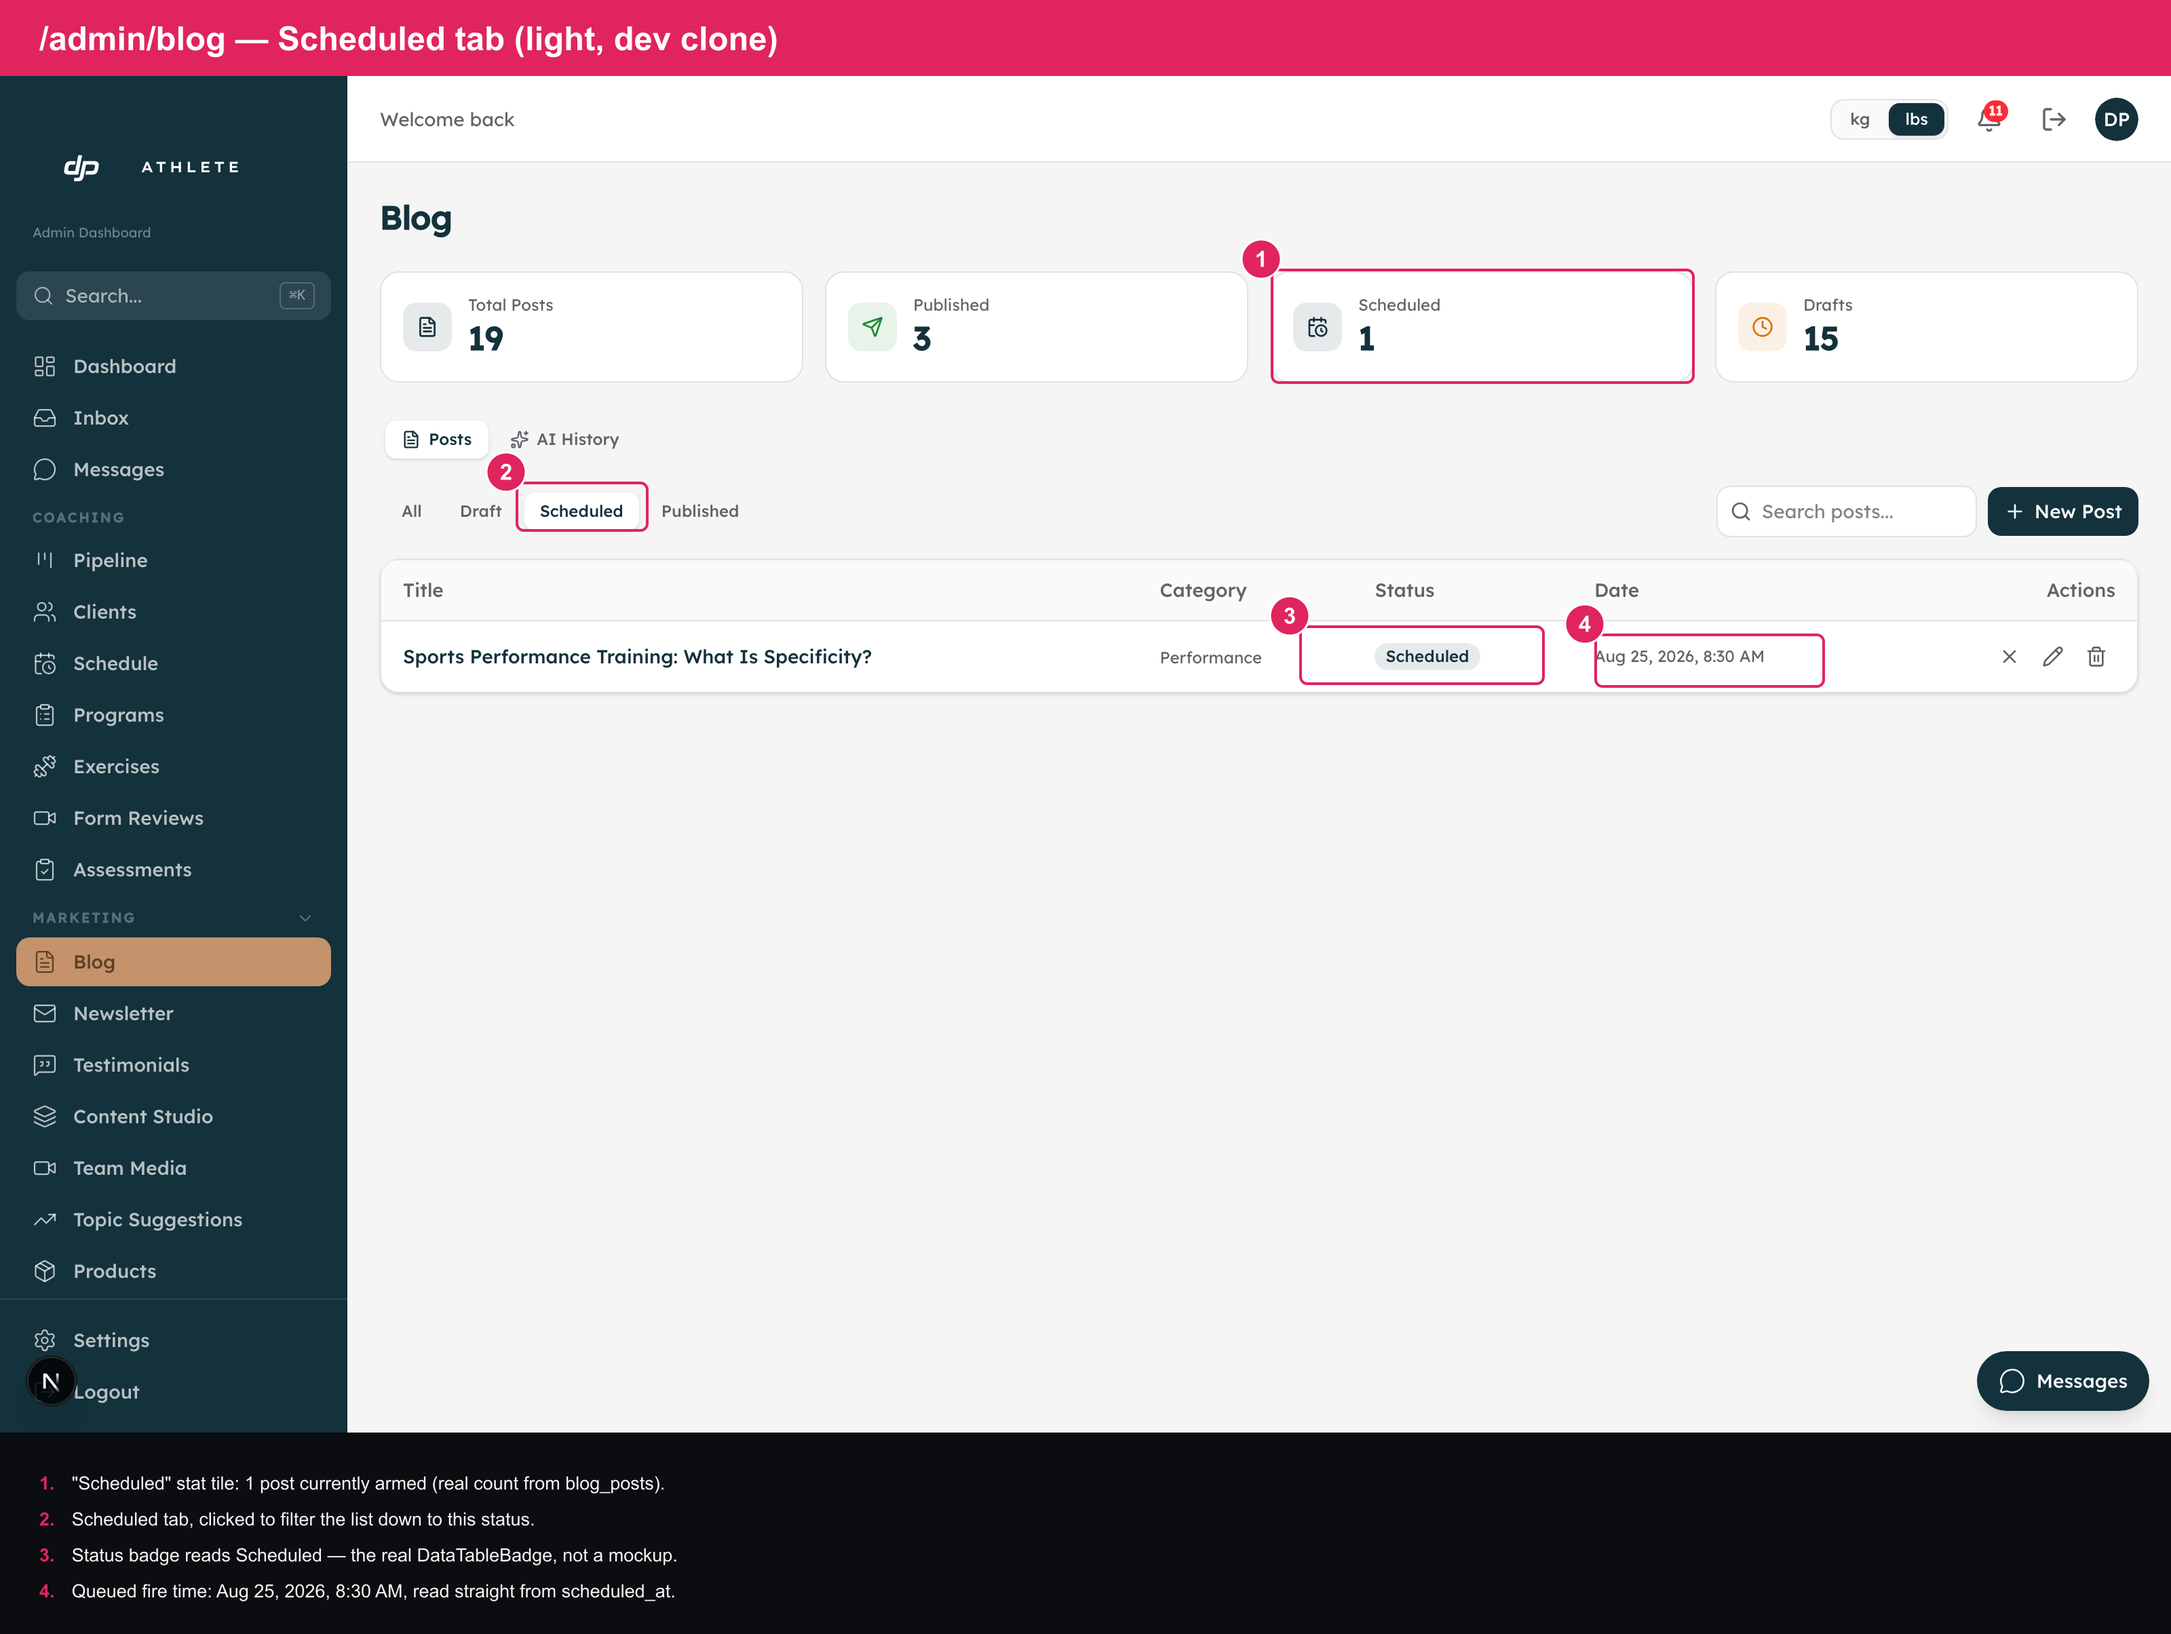
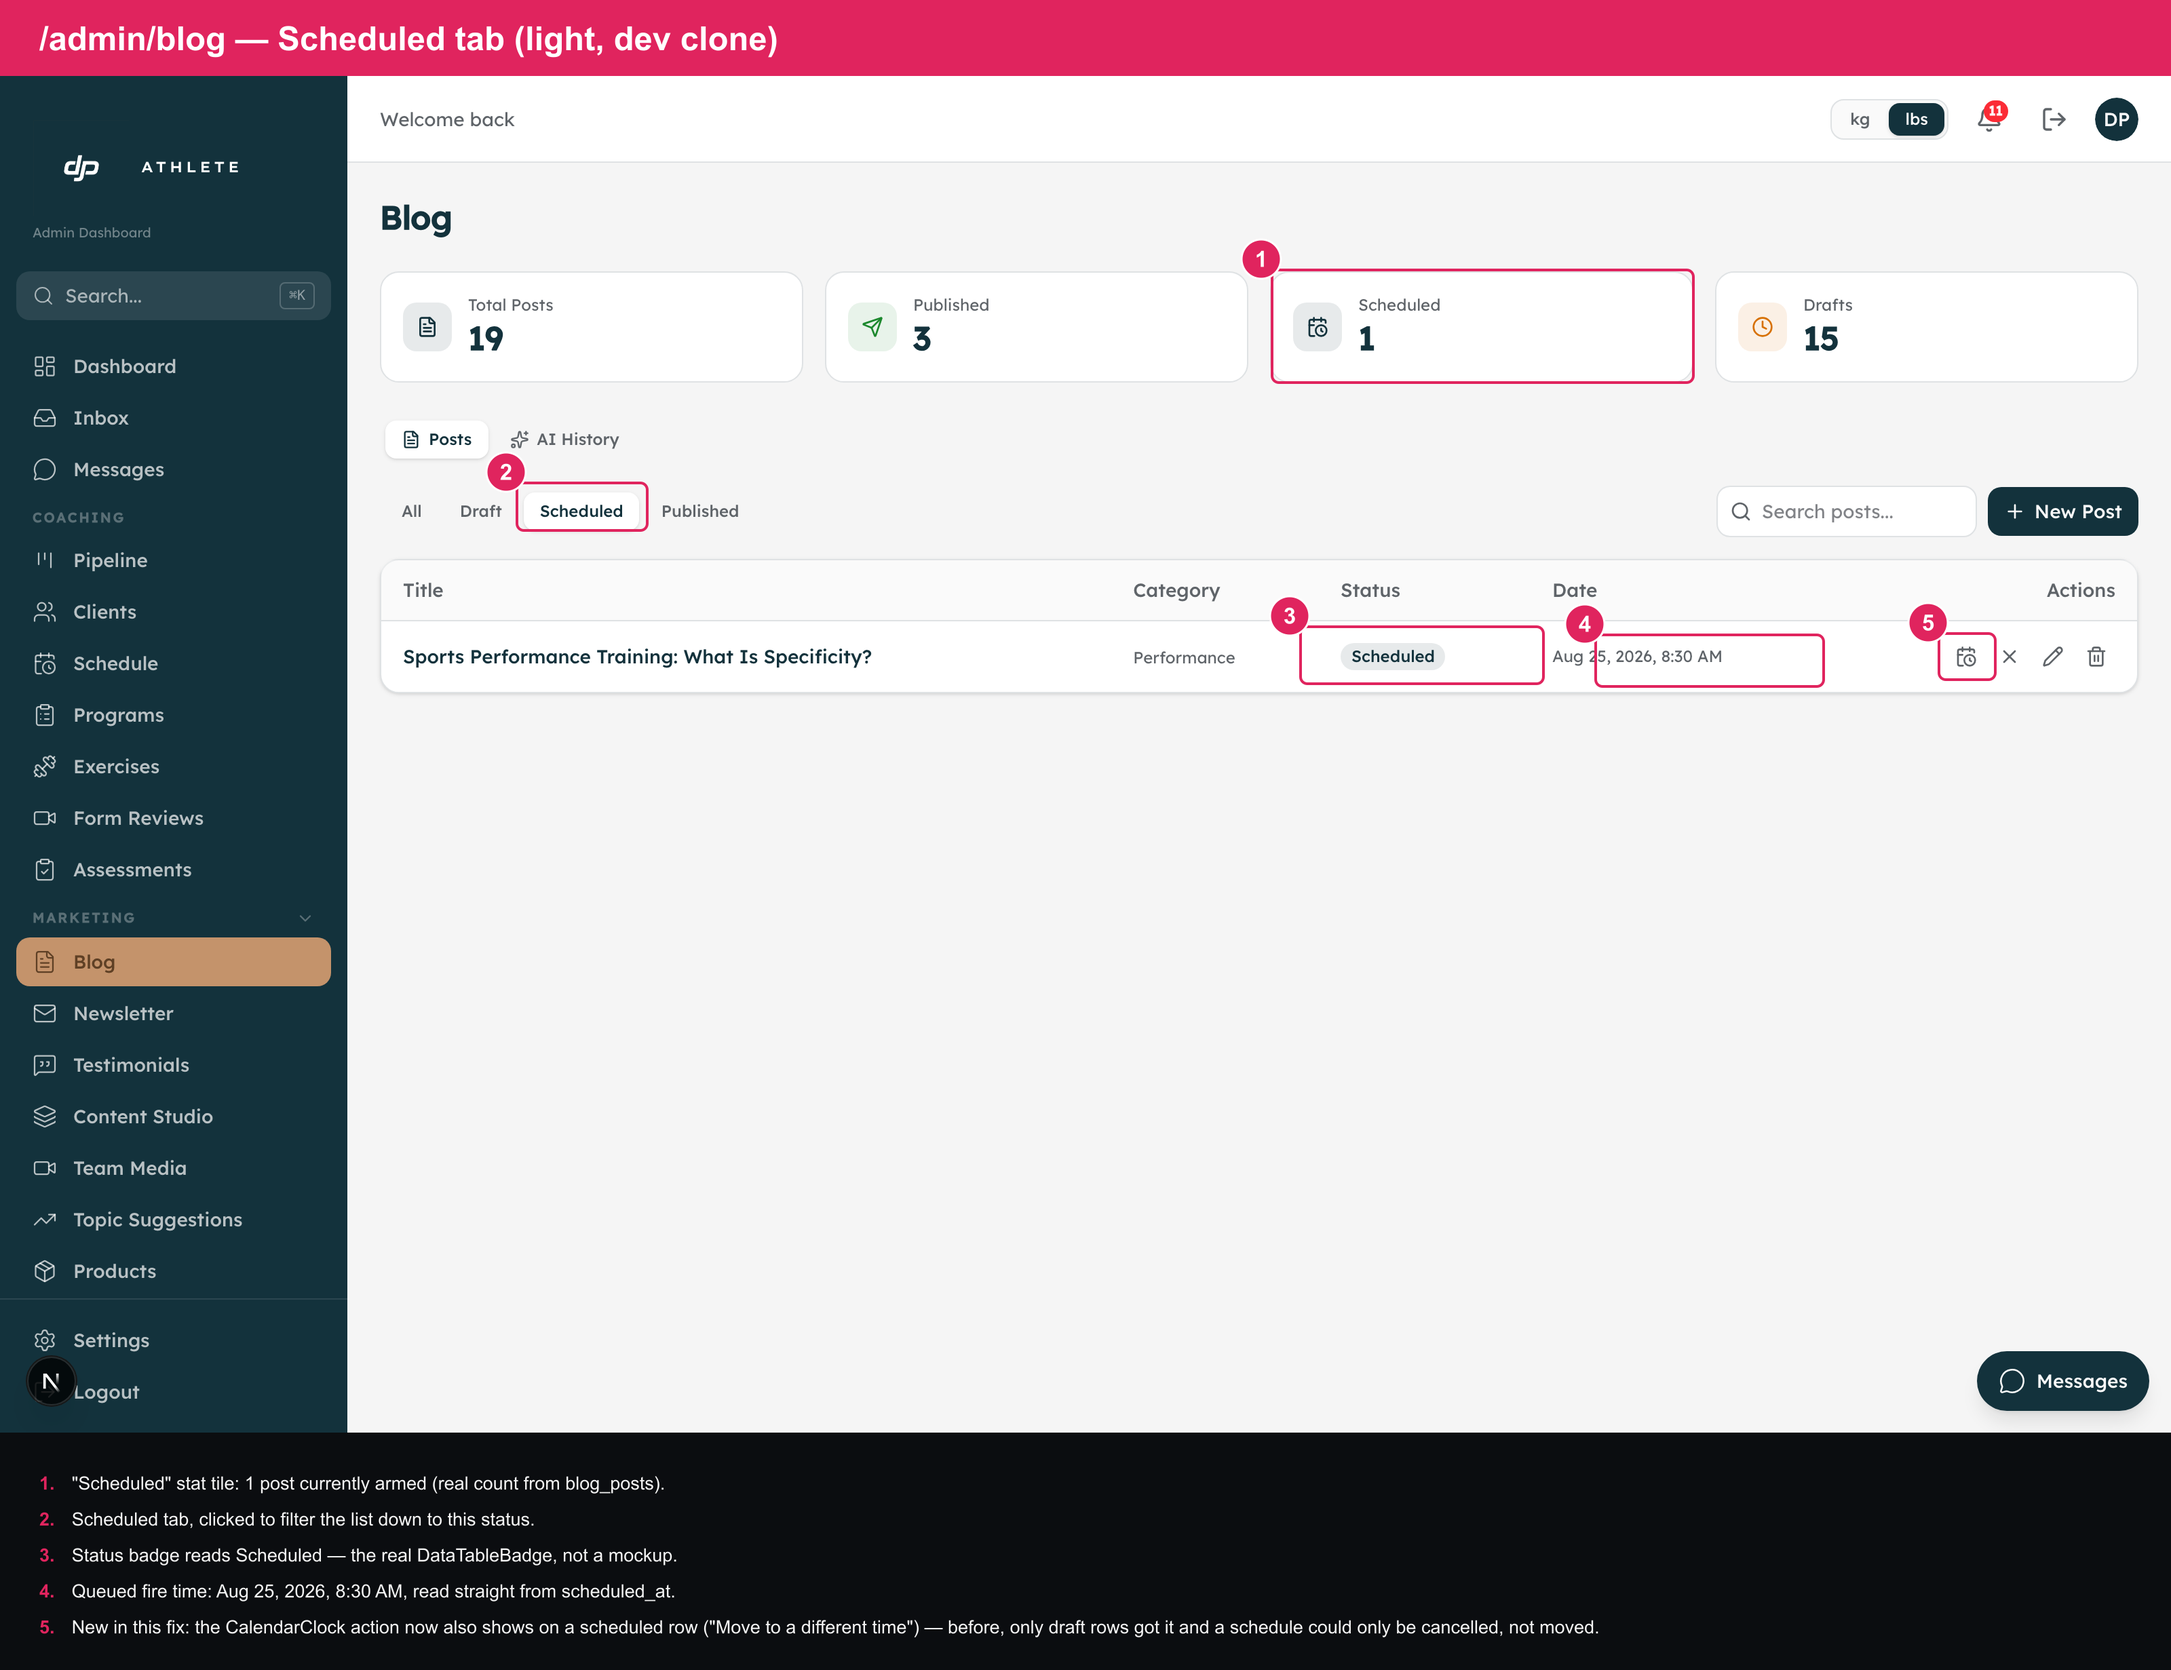
docs(content-scheduling): recapture screenshots stale after the fix wave
Commit d36f3800 humanised the missed-slot reason text and let the Schedule
action re-time an already-scheduled row, so three of the six Task 12
screenshots no longer matched the shipped app:

- 05-blog-missed-item.png showed a raw ISO timestamp and claimed it was
  "rendered verbatim" -- due.ts now renders humanised text via
  formatMissedTime(). Redone with a fresh post pushed past the 24h grace
  window and then genuinely run through the real
  /api/admin/internal/content-schedule-due endpoint, so the current code
  wrote the reason rather than a hand-typed string.
- 01-blog-scheduled-tab.png and 03-newsletter-scheduled-badge.png were
  missing the new "Move to a different time" row action, which the fix
  added to already-scheduled rows (previously Schedule only showed for
  drafts).

02, 04, and 06 were checked against the running app and left untouched --
none of them show behavior this commit changed.

diff --git a/screenshots/content-scheduling/README.md b/screenshots/content-scheduling/README.md
@@ -19,13 +19,40 @@ the capture's exact resolution (3200×2000, from a 1600×1000 viewport at
 `deviceScaleFactor: 2`) — a title banner and caption legend are appended
 above/below, but the screenshot pixels themselves are never scaled.
 
+**Recaptured 2026-08-22.** Commit `d36f3800` (a fix wave landed after the
+original capture) changed two things these shots document, so three of the
+six went stale and were re-driven against the app running that commit:
+
+- `01-blog-scheduled-tab.png` and `03-newsletter-scheduled-badge.png` — both
+  list views used to gate the row's Schedule action to `draft` only. The fix
+  also shows it on an already-`scheduled` row (icon title becomes "Move to a
+  different time"), which is now called out as an extra numbered marker on
+  each shot.
+- `05-blog-missed-item.png` — `due.ts`'s missed-item reason used to render a
+  raw ISO timestamp; it's now humanised by `formatMissedTime()`. The shot was
+  redone end-to-end with a fresh post, not just a re-annotation: the row used
+  in the original capture (and the one used in Task 12's smoke test) both
+  still carry reason strings written by the *old* code, which re-running the
+  checker does not rewrite. This shot uses "Plyometric Training: What Most
+  Coaches Get Wrong" instead, put >24h overdue and then genuinely POSTed to
+  `/api/admin/internal/content-schedule-due` so the *current* code generated
+  the reason text — not a direct DB write of the string.
+- `02-blog-schedule-dialog-open.png`, `04-blog-editor-armed-banner.png`, and
+  `06-content-calendar-chips.png` were checked against the running app and
+  are unchanged: `02` depicts the draft-row Schedule flow, which this fix
+  wave didn't touch; `04`'s banner text and `06`'s chips were re-driven live
+  and matched the committed PNGs exactly.
+
 ## The shots
 
 1. **`01-blog-scheduled-tab.png`** — `/admin/blog`, Scheduled tab. Shows
    "Sports Performance Training: What Is Specificity?" carrying the
    Scheduled badge and its queued fire time (Aug 25, 2026, 8:30 AM), reached
    by clicking the real Schedule icon on the row and confirming in the real
-   `SchedulePicker`.
+   `SchedulePicker`. The row's Actions column also now carries a second
+   CalendarClock icon, title `"Move to a different time"` — before commit
+   `d36f3800`, the Schedule action only rendered for `draft` rows, so an
+   already-scheduled post had no way to move its time, only cancel it.
 2. **`02-blog-schedule-dialog-open.png`** — the real `SchedulePicker` dialog,
    open inline over the real blog list, mid-interaction (before the custom
    time was typed in) — the actual component, not a mock.
@@ -33,25 +60,38 @@ above/below, but the screenshot pixels themselves are never scaled.
    tab. "Why Your COD Training Is Missing the Most Important Piece" reads
    **Scheduled**, not Draft — this is the Task 8 headline fix: before that
    branch, every scheduled newsletter rendered as Draft in this exact cell.
+   Same as shot 1, the row now also carries the "Move to a different time"
+   action — this list had the identical `draft`-only gate, fixed in the
+   same commit.
 4. **`04-blog-editor-armed-banner.png`** — `/admin/blog/[id]/edit` for the
    now-scheduled post, showing the armed banner: "Scheduled to go out on
    8/25/2026, 8:30:00 AM. Edits you save here will be included." with a
    working Cancel schedule link, and Publish still available in the toolbar.
-5. **`05-blog-missed-item.png`** — `/admin/blog`, All tab. "Braking
-   Performance Framework: Target RFD, Not Just Force" shows status reverted
-   to Draft with a danger-tone **Missed** badge and the runner's own
-   `schedule_failed_reason` text rendered verbatim underneath the title.
-   **How this state was reached:** the only way to get a
-   `schedule_failed_reason` without waiting 24 real hours is to write it
-   directly — acceptable here per the task brief because this is the dev
-   clone and the state is genuinely unreachable through the UI in bounded
-   time. Wrote it via the Supabase Management API (the same pattern Task 1
-   used to apply the migration), setting `status='draft'`,
-   `scheduled_at=NULL`, `schedule_failed_reason='Missed its slot — it was
-   set for 2026-08-19T07:00:00.000Z and that is more than 24 hours ago. Pick
-   a new time.'` — this is byte-for-byte the message
-   `lib/content-schedule/due.ts`'s `partitionDue()` itself generates, not an
-   invented string.
+5. **`05-blog-missed-item.png`** — `/admin/blog`, All tab. "Plyometric
+   Training: What Most Coaches Get Wrong" shows status reverted to Draft
+   with a danger-tone **Missed** badge and the runner's own
+   `schedule_failed_reason` text rendered underneath the title, reading
+   "Missed its slot — it was set for Thu 20 Aug 2026 at 4:31 PM UTC and that
+   is more than 24 hours ago. Pick a new time." (truncated by the row's own
+   single-line cell — the new wording runs a few characters longer than the
+   raw ISO timestamp it replaced, so it clips a little sooner).
+   **How this state was reached (recaptured 2026-08-22):** commit
+   `d36f3800` humanised this message — `formatMissedTime()` in
+   `lib/content-schedule/due.ts` now renders "Thu 20 Aug 2026 at 4:31 PM
+   UTC" instead of a raw ISO string. The two posts used for the *original*
+   capture and for Task 12's smoke test ("Braking Performance Framework..."
+   and "Sport Performance Training: Train the Brake...", both still visible
+   as Missed rows above this one in the All tab) still carry reason strings
+   the *old* code wrote — re-running the checker doesn't rewrite an
+   already-set `schedule_failed_reason`, so they stay stuck showing the raw
+   ISO format forever. To show the *current* wording truthfully, a
+   previously-untouched draft post ("Plyometric Training...") was set to
+   `status='scheduled'`, `scheduled_at` 25 hours in the past (Supabase
+   Management API, same guarded dev-clone-only pattern as Task 1), and then
+   the harness genuinely `POST`ed to
+   `/api/admin/internal/content-schedule-due` — the real cron endpoint,
+   running the code shipped in this commit — which wrote the reason itself.
+   No reason string was ever typed in directly.
 6. **`06-content-calendar-chips.png`** — `/admin/content?tab=calendar`,
    reached by clicking the real Calendar tab in Content Studio's own nav.
    Shows both the blog chip and the newsletter chip from shots 1–4 and 3,
@@ -130,3 +170,13 @@ Dev clone only, Supabase project ref `anjvztjiokcgiyhobknq`. Production
 (`epzuvzkokzqtzomeyoha`) was never touched — every direct-write script used
 here carries the same guard clause Task 1 established
 (`if (ref === "epzuvzkokzqtzomeyoha") throw new Error(...)`).
+
+**Recapture (2026-08-22) added one more permanent row state:** "Plyometric
+Training: What Most Coaches Get Wrong" (`fd58ad0e-411e-4736-bf7f-3001d8b0355b`)
+was set `scheduled` / 25h-overdue, then genuinely run through
+`/api/admin/internal/content-schedule-due`, landing it as `draft` with the
+current, humanised `schedule_failed_reason` — left as-is rather than
+reverted, same reasoning as Task 12's original three rows: it's a realistic
+state, and shot 05 references it by exact title. The two waiting items from
+shots 1–4/3 were confirmed unchanged and unsent by the same run
+(`published: 0, sent: 0, missed: 1`).
